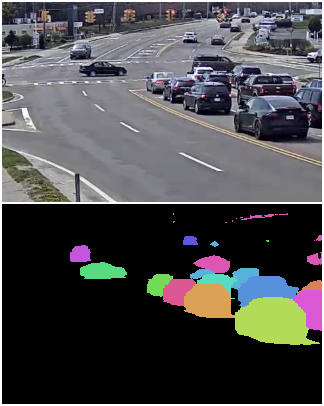
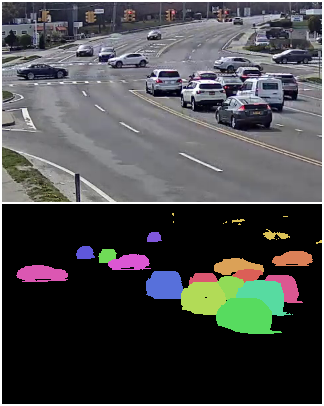
add Segformer support

diff --git a/MF_models_encoder.py b/MF_models_encoder.py
@@ -1,7 +1,24 @@
 
 import torch
 import torch.nn as nn
+from MF_config import args
 
+from transformers import SegformerModel, SegformerConfig, SegformerForSemanticSegmentation
+
+
+class Segformer_model(nn.Module):
+
+    def __init__(self,out_channels):
+        super().__init__()
+        segformer_model = SegformerModel.from_pretrained(args.pretrained_backbone_weights_reference)
+        configuration = segformer_model.config
+        configuration.num_labels = out_channels
+        self.complete_model = SegformerForSemanticSegmentation(configuration)
+        self.complete_model.segformer = segformer_model
+
+    def forward(self, x):
+        outputs = self.complete_model(x)
+        return outputs.logits
 
 def compute_output_paddings(image_height,image_width,n_layers):
 
@@ -144,15 +161,30 @@ class Encoder(nn.Module):
 
         feature_and_attention_map_dim = self.args.max_set_size+self.args.z_what_dim + 1 + self.scaling_dim # +1 is for activation
 
-        self.feature_and_attention_map_generator = Unet(args.image_height, args.image_width,3, feature_and_attention_map_dim)
+        if args.feature_map_generator_name == "Unet":
+            self.feature_and_attention_map_generator = Unet(args.image_height, args.image_width,3, feature_and_attention_map_dim)
+        elif args.feature_map_generator_name == "Segformer":
+            self.feature_and_attention_map_generator = Segformer_model(feature_and_attention_map_dim)
+        else:
+            print(f'feature map generator name {args.feature_map_generator_name} not recognized ')
+            exit(0)
+
+        self.feature_and_attention_map_generator = self.feature_and_attention_map_generator.to(args.device)
+
+        test_image = torch.rand(1,3,args.image_height,args.image_width).to(args.device)
+        bs,n_channels,self.feature_map_height,self.feature_map_width = self.feature_and_attention_map_generator(test_image ).shape
+        fw = self.feature_map_width
+        fh = self.feature_map_height
+        print(f'feature map shape is {n_channels,fh,fw}')
+        assert n_channels ==  feature_and_attention_map_dim
 
         # position encoding for position latents, range normalized on [-1,1]
-        position_map = torch.zeros((2, h, w))
-        for x in range(w):
-            for y in range(h):
-                position_map[0, y, x] = 2*(x / (w-1) - 0.5)
-                position_map[1, y, x] = 2*(y / (h-1) - 0.5)
-        self.position_map = nn.Parameter(position_map.reshape( 1, 2, h,w), requires_grad=False)
+        position_map = torch.zeros((2, fh, fw))
+        for x in range(fw):
+            for y in range(fh):
+                position_map[0, y, x] = 2*(x / (fw-1) - 0.5)
+                position_map[1, y, x] = 2*(y / (fh-1) - 0.5)
+        self.position_map = nn.Parameter(position_map.reshape( 1, 2, fh,fw), requires_grad=False)
 
         self.feature_vector_embedding = nn.Linear(self.args.z_what_dim + 3+self.scaling_dim, args.transformer_dim) # K,x,y,alpha, scale
 
@@ -171,15 +203,15 @@ class Encoder(nn.Module):
             # input shape  is N3HW
             n = input_images.shape[0]
             k = self.args.max_set_size
-            h = self.args.image_height
-            w = self.args.image_width
+            fh = self.feature_map_height
+            fw = self.feature_map_width
 
 
             feature_and_attention_map = self.feature_and_attention_map_generator(input_images)
 
             attention_logits = feature_and_attention_map[:, :k,:, :]
 
-            attention_weights = torch.softmax(attention_logits.reshape(n,k,h*w), dim = 2).reshape(n,k,h,w)
+            attention_weights = torch.softmax(attention_logits.reshape(n,k,fh*fw), dim = 2).reshape(n,k,fh,fw)
 
             position_and_feature_maps = torch.cat([self.position_map.expand(n,-1,-1,-1), feature_and_attention_map[:,k:,:,:] ], dim = 1) # BS, 5+f, h, w
 

diff --git a/MF_config.py b/MF_config.py
@@ -30,6 +30,8 @@ class Foreground_training_configuration_data:
             self.fixed_background = None
 
             # model parameters
+            self.feature_map_generator_name = "Unet" # "Unet" or "Segformer"
+            self.pretrained_backbone_weights_reference = "nvidia/mit-b3" # for Segformer cf Hugging Face website for available weights
             self.isotropic_scaling = None
             self.transformer_dim = 256 # dimension of inputs and outputs of the transformer encoder
             self.transformer_nhead = 8 # number of heads of  transformer encoder
@@ -191,8 +193,9 @@ dataset_configs = {'clevrtex':
                     "test_dataset_input_path": "/workspace/nvme0n1p1/Datasets/objects_room/background_output/input_images_test",
                    "test_dataset_background_path": "/workspace/nvme0n1p1/Datasets/objects_room/background_output/backgrounds_rgba_test",
                    "test_dataset_GT_mask_path": "/workspace/nvme0n1p1/Datasets/objects_room/background_output/GT_masks_test",
-              #"object_model_checkpoint_path_alt1":"/workspace/PycharmProjects/SCOD/MOS/MF/MF_outputs/2022-05-13T20:23:02.862769tinput_images_train/checkpoint_final_8_epochs.pth",
-                   "object_model_checkpoint_path": "/workspace/PycharmProjects/SCOD/MOS/MF/MF_outputs/2022-05-13T17:49:13.696656tinput_images_train/checkpoint_final_8_epochs.pth",
+
+                   #"object_model_checkpoint_path": "/workspace/PycharmProjects/SCOD/MOS/MF/MF_outputs/2022-05-13T17:49:13.696656tinput_images_train/checkpoint_final_8_epochs.pth",
+                "object_model_checkpoint_path":"/workspace/PycharmProjects/SCOD/MOS/MF/MF_outputs/2022-07-29T10:15:42.491299tinput_images_train/checkpoint_0.pth",
                     "results_dir_path" :  "/workspace/nvme0n1p1/Datasets/objects_room/results",
                      },
 
@@ -203,7 +206,8 @@ dataset_configs = {'clevrtex':
         "test_dataset_input_path": "/workspace/nvme0n1p1/Datasets/southampton2/background_output/input_images_train",
         "test_dataset_background_path": "/workspace/nvme0n1p1/Datasets/southampton2/background_output/backgrounds_rgba_train",
         #"object_model_checkpoint_path": "/workspace/PycharmProjects/SCOD/MOS/MF/MF_outputs/2022-05-03T10:58:04.208388tinput_images_train/checkpoint_final_107_epochs.pth",
-        "object_model_checkpoint_path":  "/workspace/PycharmProjects/SCOD/MOS/MF/MF_outputs/2022-05-21T15:25:47.918711tinput_images_train/checkpoint_final_134_epochs.pth",
+        #"object_model_checkpoint_path":  "/workspace/PycharmProjects/SCOD/MOS/MF/MF_outputs/2022-05-21T15:25:47.918711tinput_images_train/checkpoint_final_134_epochs.pth",
+        "object_model_checkpoint_path": "/workspace/PycharmProjects/SCOD/MOS/MF/MF_outputs/2022-07-21T14:03:55.634360tinput_images_train/checkpoint_final_132_epochs.pth",
         "results_dir_path": "/workspace/nvme0n1p1/Datasets/southampton2/foreground_output/",
         "use_trained_model" : False
         },
@@ -236,7 +240,7 @@ dataset_configs = {'clevrtex':
 
 #dataset_name = 'shapestacks'
 #dataset_name = 'objects_room'
-dataset_name = 'clevrtex'
+dataset_name = 'objects_room'
 #dataset_name = 'clevr'
 #dataset_name = 'camo'
 #dataset_name = 'ood'

diff --git a/MF_generate_image_samples.py b/MF_generate_image_samples.py
@@ -19,24 +19,24 @@ if __name__ == "__main__":
     netE.eval()
     netG.eval()
 
-    batch_size = 20
+    n_images = 20
     number_of_samples = 1
     div = 4
 
 
-    test_dataset, test_dataloader = MF_data.get_test_dataset_and_dataloader(batch_size = batch_size)
+    test_dataset, test_dataloader = MF_data.get_test_dataset_and_dataloader(batch_size = n_images)
 
     for idx in range(number_of_samples):
         data = next(iter(test_dataloader))
 
-        images = MF_utils.build_train_images(data, netE, netG)
+        images = MF_utils.build_train_images(data, netE, netG, n_images)
 
         N,C,H,W = images.shape
         print(f'images shape is {images.shape}')
         images = images.reshape(N//div,div,C,H,W).permute(1,0,2,3,4).reshape(N,C,H,W)
 
         vutils.save_image(images,
-                          os.path.join(args.results_dir_path, f"sample_{idx}.png"), nrow=batch_size//div,
+                          os.path.join(args.results_dir_path, f"sample_{idx}.png"), nrow=n_images//div,
                           pad_value=1)
     print(f'image samples saved in directory {args.results_dir_path}')
 

diff --git a/MF_utils.py b/MF_utils.py
@@ -52,7 +52,7 @@ def normalize_1(x):
     return z
 
 @torch.no_grad()
-def build_train_images(data,netE,netG):
+def build_train_images(data,netE,netG, n_images=None):
 
     training_mode = netE.training
     assert training_mode == netG.training
@@ -62,7 +62,8 @@ def build_train_images(data,netE,netG):
 
     input_images, background_images_with_error_prediction, GT_masks = data
     batch_size = input_images.shape[0]
-    n_images = min(batch_size, args.n_images_to_show)
+    if n_images is None:
+        n_images = min(batch_size, args.n_images_to_show)
     input_images = input_images.type(torch.cuda.FloatTensor).to(torch.device(0))[:n_images]
     background_images_with_error_prediction = background_images_with_error_prediction.type(torch.cuda.FloatTensor).to(args.device)
 

diff --git a/README.md b/README.md
@@ -22,6 +22,7 @@ pip install -r requirements.txt
 ```
 The model has been tested on Nvidia RTX 3090 GPU.
 
+
 ## How to use the model
 
 
@@ -63,8 +64,9 @@ This command will create the following datasets in the background model output d
 
 ### Step 3 : train the foreground model
 
-- create a new entry in the foreground configuration file MF_config.py, with the image sizes, value of K, 
+  - create a new entry in the foreground configuration file MF_config.py, with the image sizes, value of K, 
   and paths to the required datasets in the background model output directory
+  - choose feature map generator and update configuration file accordingly. Implemented generators are Unet (default) and Segformer (Hugging Face implementation). 
   - start training the foreground model with python MF_train.py
     during training, some image samples are generated and using the path training_images_output_directory 
     set in the configuration file MF_config.py which have to be updated. 
